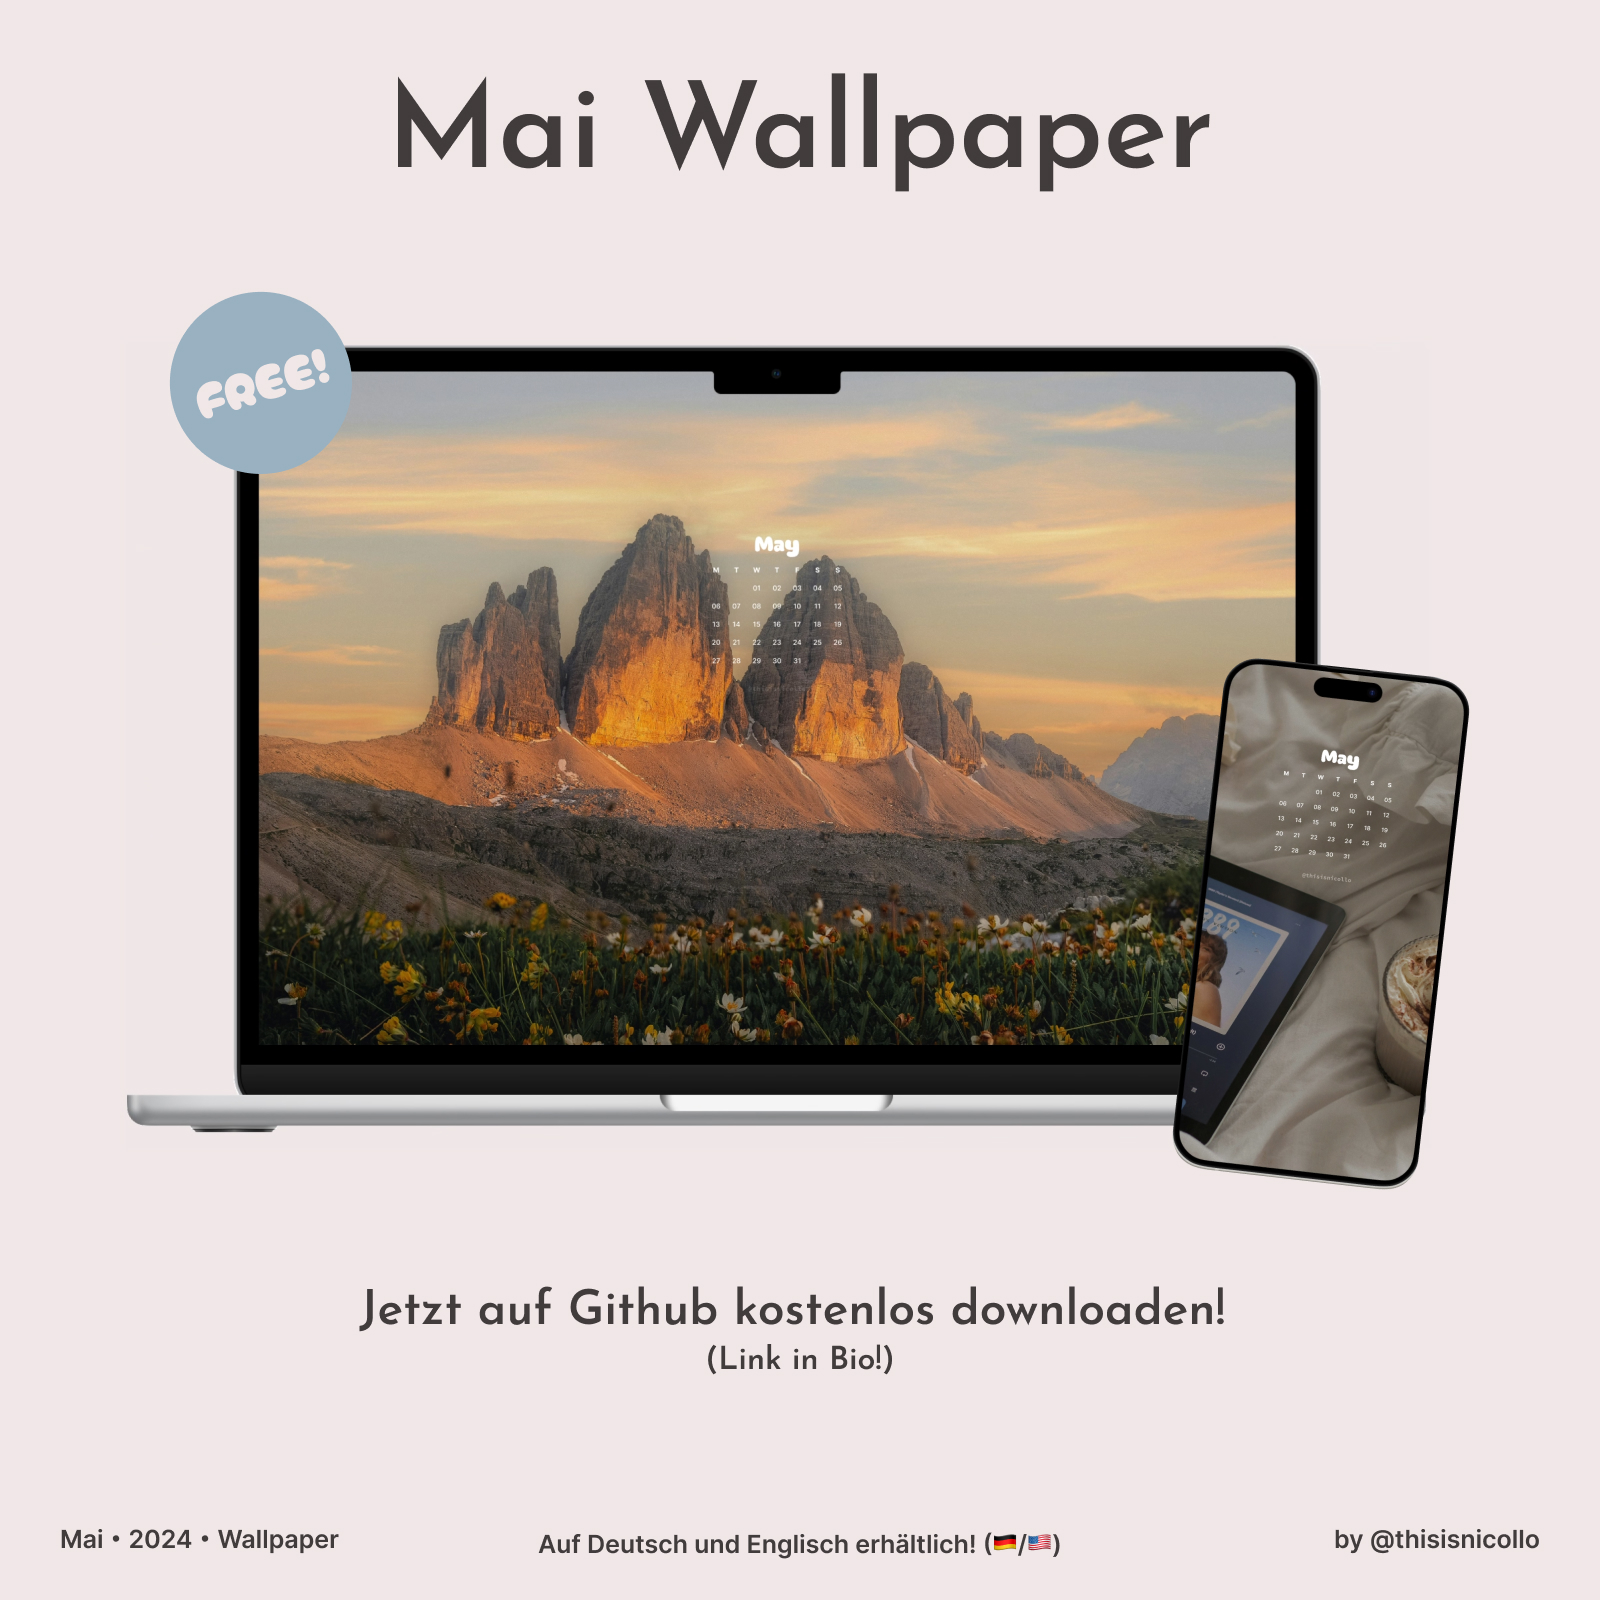
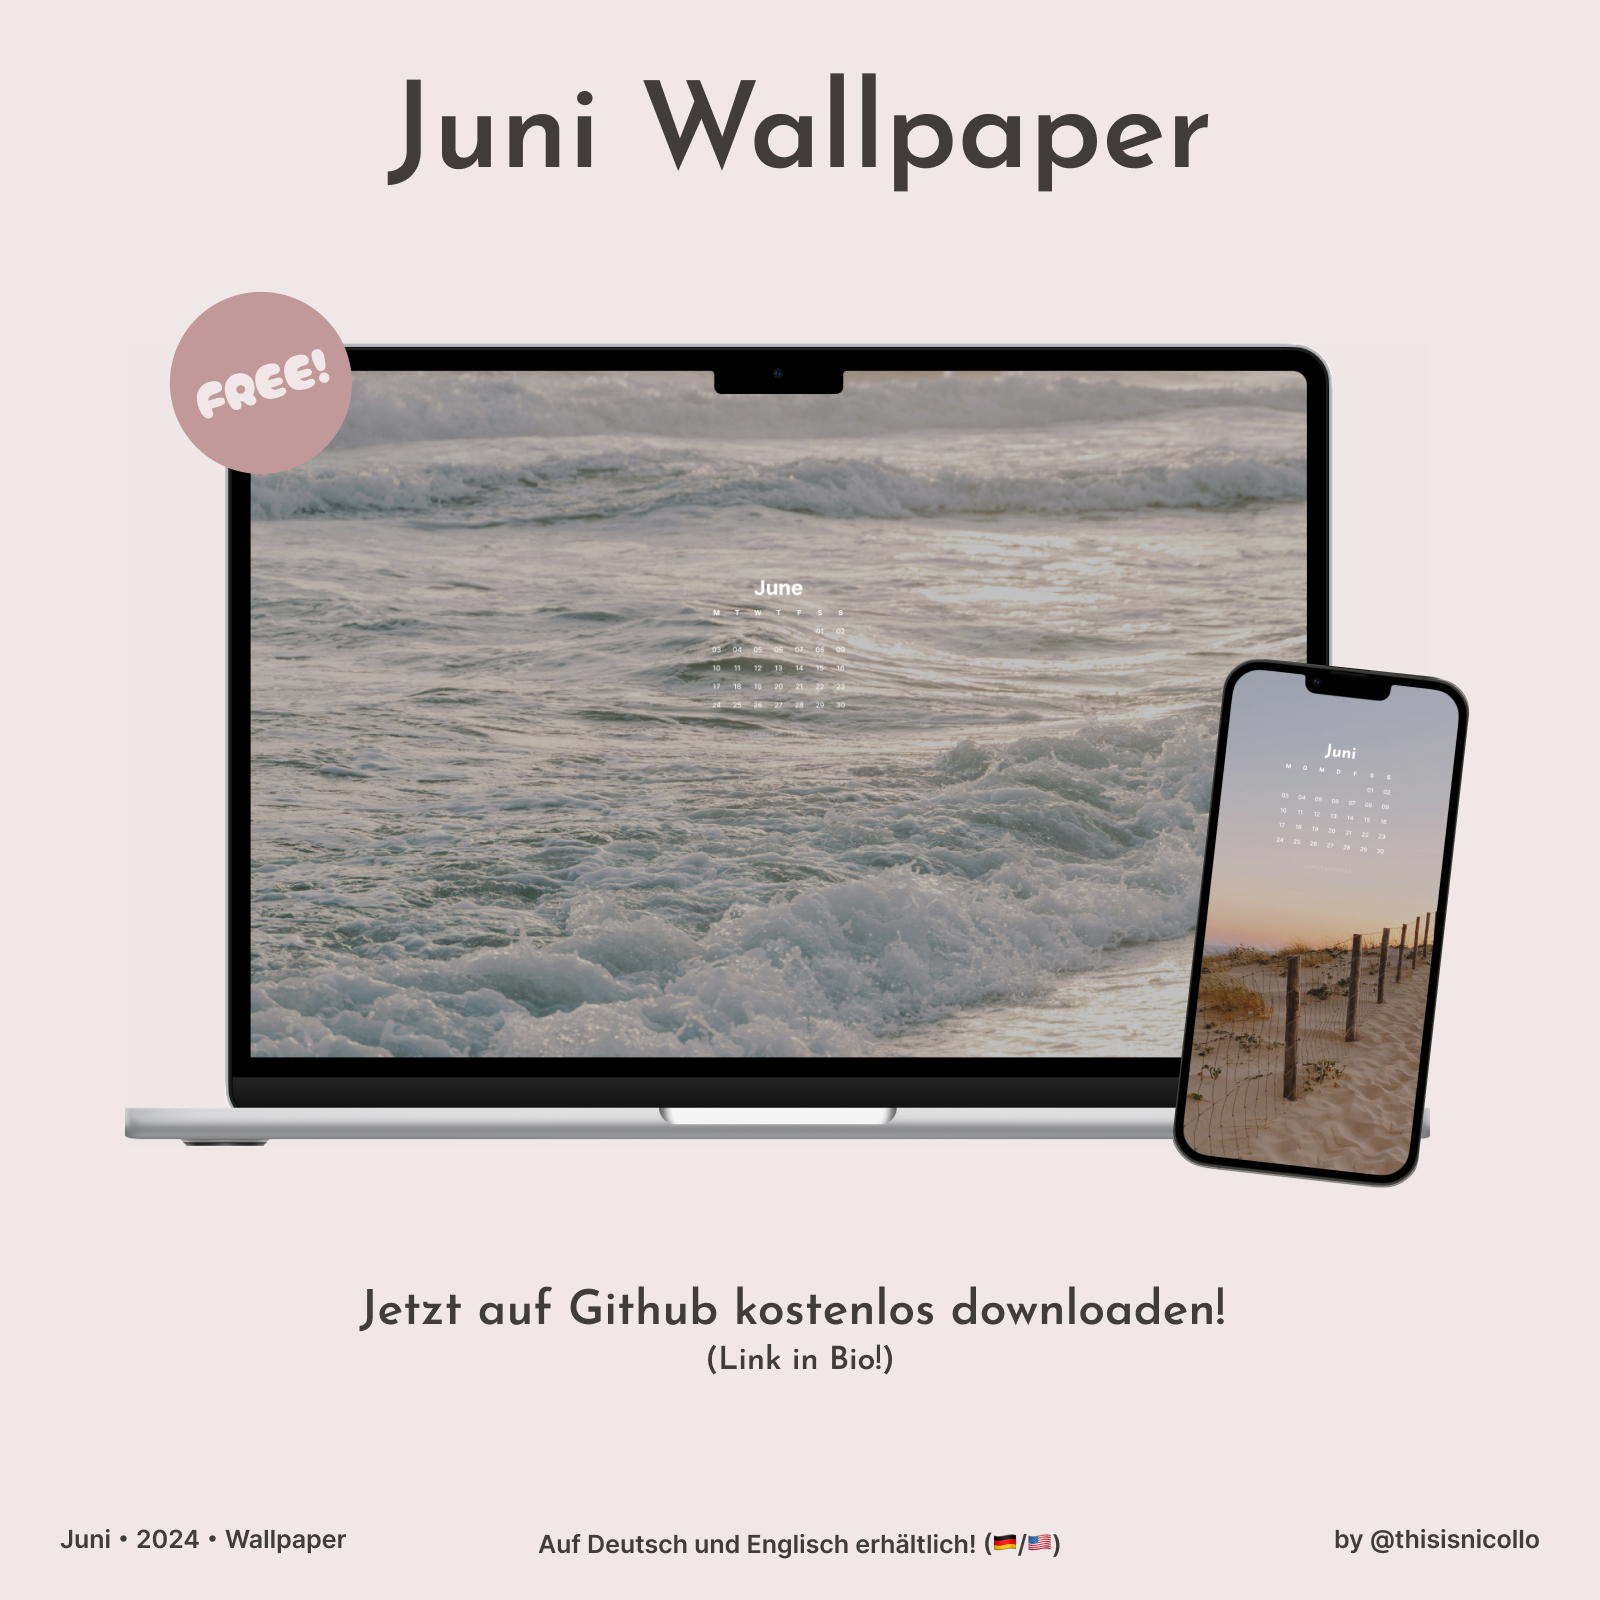
06_2024

diff --git a/README.md b/README.md
@@ -1,14 +1,12 @@
 <p align="center">
-  <img src="Assets/05_2024_Wallpaper.jpg" alt="Mai 2024 Wallpaper Titel" width="">
+  <img src="Assets/06_2024_Wallpaper" alt="Juni 2024 Wallpaper Titel" width="">
 </p>
 
-# 🖼 Mai 2024 Wallpaper 
+# 🖼 Juni 2024 Wallpaper 
 
 🇩🇪
-Die Natur ist in voller Blüte, die Bäume sind grün, und die Tage sind warm und sonnig. 🍃🌞 
-Es ist Mai und passend dazu gibt es die neuen Wallpaper! 💻🙌🏼
-
-Wähle dein Lieblings-Wallpaper und genieße den Frühling in vollen Zügen! 🌼🤍
+Der Juni ist da und der Sommer beginnt! ☀✨
+Die neuen Wallpaper bringen den skandinavischen Charme und die frische Sommerbrise direkt auf deinen Bildschirm. 🌻🫎🌿
 
 
 [⏬💗Wallpaper Vorschau](#wallpaper)<br><br>[⏬🇺🇸English below](#english)
@@ -48,10 +46,8 @@ Die folgenden Vorschaubilder sind für Desktop, Smartphone und Tablet erhältlic
 # 🖼 May 2024 Wallpaper
 
 🇺🇸
-Nature is blooming, the trees have turned green and the days are warm and sunny. 🍃🌞 
-It's May and there are new wallpapers to match! 💻🙌🏼
-
-Choose your favorite wallpaper and enjoy spring to the fullest! 🌼🤍
+June is finally here and already summer has begun! ☀✨ 
+The new wallpapers give you Scandinavian charm and a fresh summer breeze right on your screen. 🌻🫎🌿
 
 
 ## 📥 Usage
@@ -97,6 +93,12 @@ The Wallpapers are available for desktop, smartphone and tablet. The calendars a
   <img src="Deutsch/Desktop/06_Desktop_DE.jpg" width="46%" />
   <img src="Deutsch/Desktop/07_Desktop_DE.jpg" width="46%" />
   <img src="Deutsch/Desktop/08_Desktop_DE.jpg" width="46%" />
+  <img src="Deutsch/Desktop/09_Desktop_DE.jpg" width="46%" />
+  <img src="Deutsch/Desktop/10_Desktop_DE.jpg" width="46%" />
+  <img src="Deutsch/Desktop/11_Desktop_DE.jpg" width="46%" />
+  <img src="Deutsch/Desktop/12_Desktop_DE.jpg" width="46%" />
+  <img src="Deutsch/Desktop/13_Desktop_DE.jpg" width="46%" />
+  <img src="Deutsch/Desktop/14_Desktop_DE.jpg" width="46%" />
 </p>
 
 #### 🇺🇸 [English](English/Desktop)
@@ -109,6 +111,12 @@ The Wallpapers are available for desktop, smartphone and tablet. The calendars a
   <img src="English/Desktop/06_Desktop_EN.jpg" width="46%" />
   <img src="English/Desktop/07_Desktop_EN.jpg" width="46%" />
   <img src="English/Desktop/08_Desktop_EN.jpg" width="46%" />
+  <img src="Deutsch/Desktop/09_Desktop_EN.jpg" width="46%" />
+  <img src="Deutsch/Desktop/10_Desktop_EN.jpg" width="46%" />
+  <img src="Deutsch/Desktop/11_Desktop_EN.jpg" width="46%" />
+  <img src="Deutsch/Desktop/12_Desktop_EN.jpg" width="46%" />
+  <img src="Deutsch/Desktop/13_Desktop_EN.jpg" width="46%" />
+  <img src="Deutsch/Desktop/14_Desktop_EN.jpg" width="46%" />
 </p>
 
 ### 📱 Smartphone
@@ -123,6 +131,12 @@ The Wallpapers are available for desktop, smartphone and tablet. The calendars a
   <img src="Deutsch/Smartphone/06_Smartphone_DE.jpg" width="15%" />
   <img src="Deutsch/Smartphone/07_Smartphone_DE.jpg" width="15%" />
   <img src="Deutsch/Smartphone/08_Smartphone_DE.jpg" width="15%" />
+  <img src="Deutsch/Smartphone/09_Smartphone_DE.jpg" width="46%" />
+  <img src="Deutsch/Smartphone/10_Smartphone_DE.jpg" width="46%" />
+  <img src="Deutsch/Smartphone/11_Smartphone_DE.jpg" width="46%" />
+  <img src="Deutsch/Smartphone/12_Smartphone_DE.jpg" width="46%" />
+  <img src="Deutsch/Smartphone/13_Smartphone_DE.jpg" width="46%" />
+  <img src="Deutsch/Smartphone/14_Smartphone_DE.jpg" width="46%" />
 </p>
 
 #### 🇺🇸 [English](English/Smartphone)
@@ -135,6 +149,12 @@ The Wallpapers are available for desktop, smartphone and tablet. The calendars a
   <img src="English/Smartphone/06_Smartphone_EN.jpg" width="15%" />
   <img src="English/Smartphone/07_Smartphone_EN.jpg" width="15%" />
   <img src="English/Smartphone/08_Smartphone_EN.jpg" width="15%" />
+  <img src="Deutsch/Smartphone/09_Smartphone_EN.jpg" width="46%" />
+  <img src="Deutsch/Smartphone/10_Smartphone_EN.jpg" width="46%" />
+  <img src="Deutsch/Smartphone/11_Smartphone_EN.jpg" width="46%" />
+  <img src="Deutsch/Smartphone/12_Smartphone_EN.jpg" width="46%" />
+  <img src="Deutsch/Smartphone/13_Smartphone_EN.jpg" width="46%" />
+  <img src="Deutsch/Smartphone/14_Smartphone_EN.jpg" width="46%" />
 </p>
 
 ### 📱 Tablet
@@ -149,6 +169,12 @@ The Wallpapers are available for desktop, smartphone and tablet. The calendars a
   <img src="Deutsch/Tablet/06_Tablet_DE.jpg" width="15%" />
   <img src="Deutsch/Tablet/07_Tablet_DE.jpg" width="15%" />
   <img src="Deutsch/Tablet/08_Tablet_DE.jpg" width="15%" />
+  <img src="Deutsch/Tablet/09_Tablet_DE.jpg" width="46%" />
+  <img src="Deutsch/Tablet/10_Tablet_DE.jpg" width="46%" />
+  <img src="Deutsch/Tablet/11_Tablet_DE.jpg" width="46%" />
+  <img src="Deutsch/Tablet/12_Tablet_DE.jpg" width="46%" />
+  <img src="Deutsch/Tablet/13_Tablet_DE.jpg" width="46%" />
+  <img src="Deutsch/Tablet/14_Tablet_DE.jpg" width="46%" />
 </p>
 
 #### 🇺🇸 [English](English/Tablet)
@@ -161,4 +187,10 @@ The Wallpapers are available for desktop, smartphone and tablet. The calendars a
   <img src="English/Tablet/06_Tablet_EN.jpg" width="15%" />
   <img src="English/Tablet/07_Tablet_EN.jpg" width="15%" />
   <img src="English/Tablet/08_Tablet_EN.jpg" width="15%" />
+  <img src="Deutsch/Tablet/09_Tablet_EN.jpg" width="46%" />
+  <img src="Deutsch/Tablet/10_Tablet_EN.jpg" width="46%" />
+  <img src="Deutsch/Tablet/11_Tablet_EN.jpg" width="46%" />
+  <img src="Deutsch/Tablet/12_Tablet_EN.jpg" width="46%" />
+  <img src="Deutsch/Tablet/13_Tablet_EN.jpg" width="46%" />
+  <img src="Deutsch/Tablet/14_Tablet_EN.jpg" width="46%" />
 </p>
